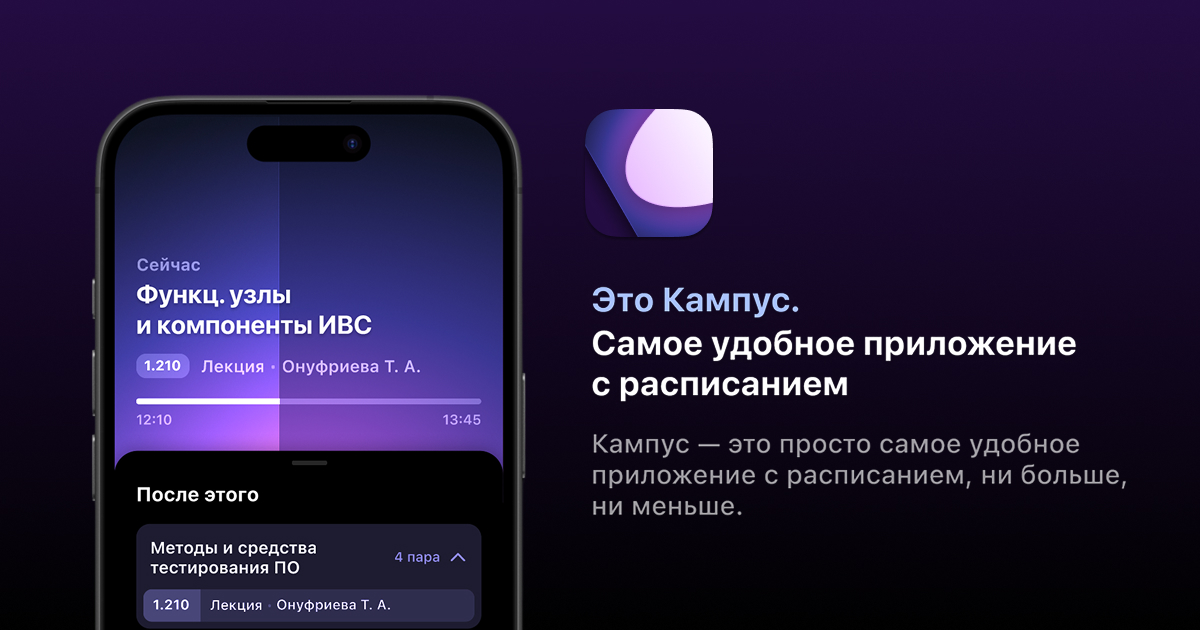
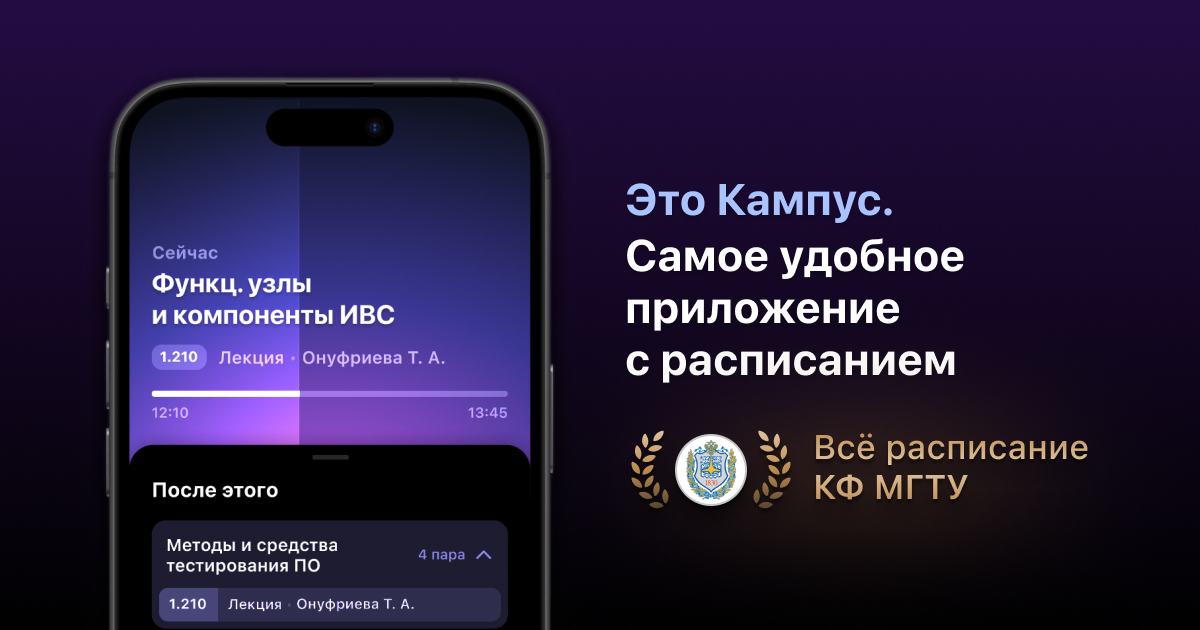
Fix Open Graph image not displaying in big mode

Changed region(s): [[0.0617, 0.1206, 0.8942, 1.0], [0.4933, 0.6635, 0.9558, 0.8143]]

diff --git a/frontend/index.html b/frontend/index.html
@@ -20,7 +20,7 @@
 
     <!-- Open Graph -->
     <meta property="og:type" content="product" />
-    <meta property="og:title" content="Кампус — расписание" />
+    <meta property="og:title" content="Кампус — Расписание КФ МГТУ" />
     <meta
       property="og:description"
       content="Самое удобное приложение с расписанием, ни больше, ни меньше."
@@ -31,6 +31,11 @@
       content="https://appcampus.ru/preview.jpg"
     />
     <meta property="og:site_name" content="Кампус" />
+    <meta name="twitter:card" content="summary_large_image" />
+    <meta
+      name="twitter:image"
+      content="https://appcampus.ru/preview.jpg"
+    />
   </head>
   <body>
     <div id="root"></div>
